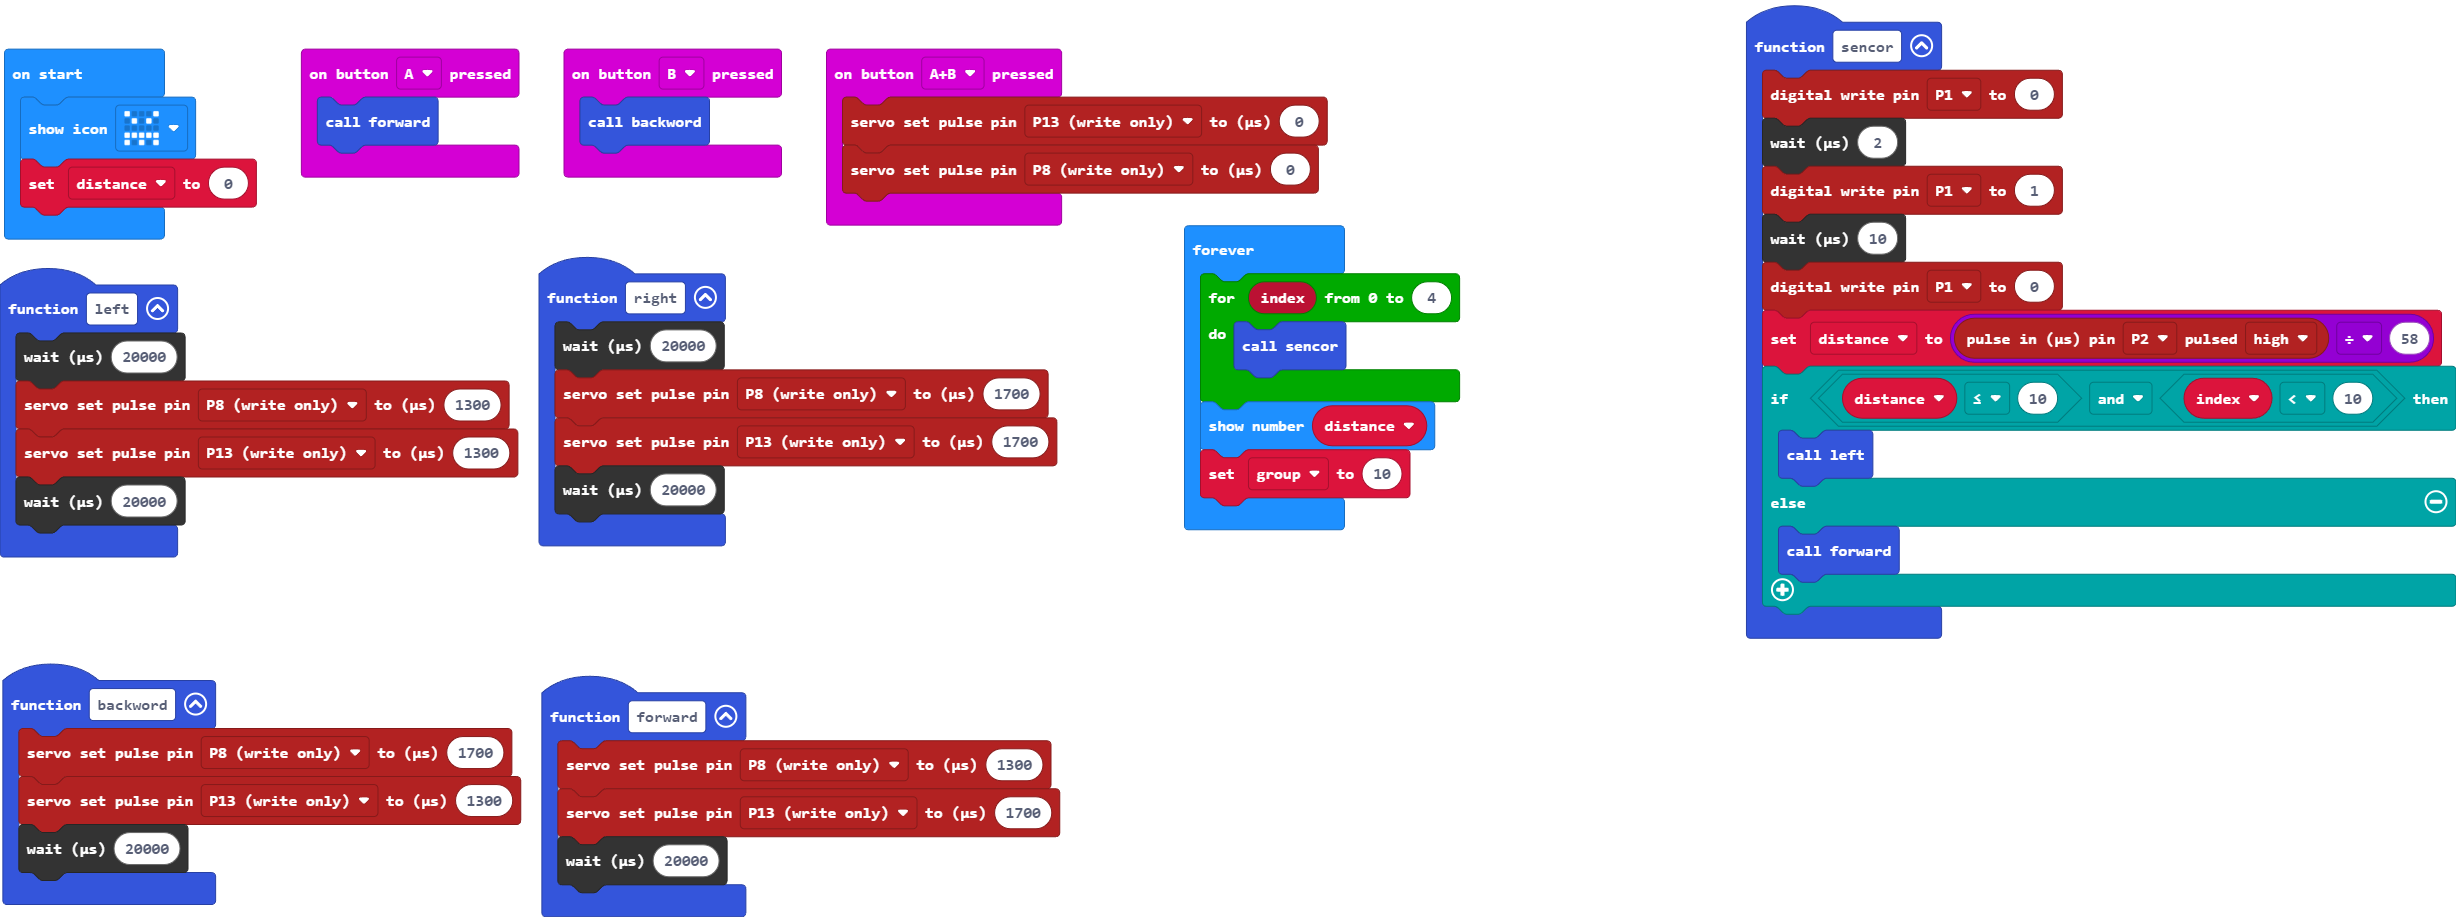
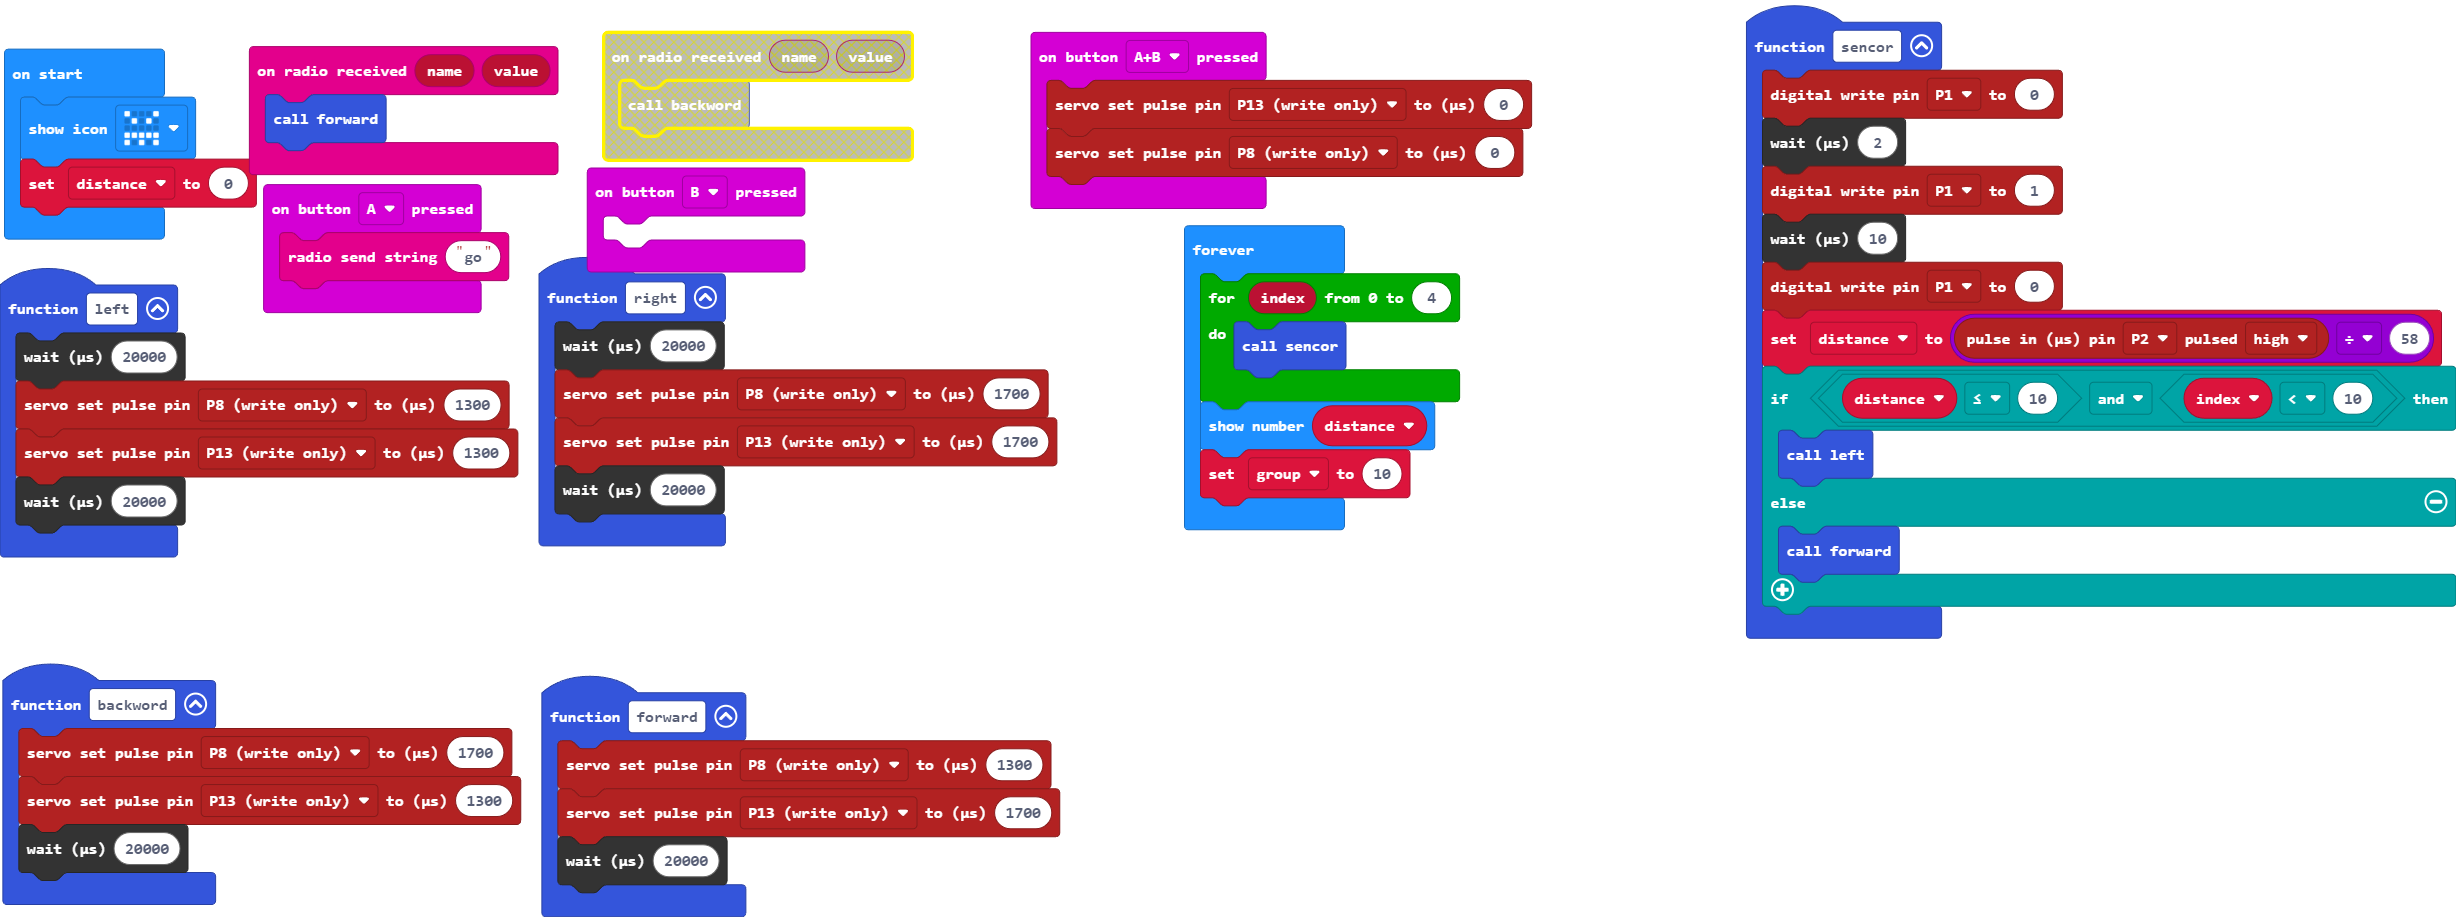
Update main.blocks, main.ts

Changed region(s): [[0.0928, 0.0305, 0.6498, 0.3664]]

diff --git a/main.ts b/main.ts
@@ -16,7 +16,7 @@ function left () {
     control.waitMicros(20000)
 }
 input.onButtonPressed(Button.A, function () {
-    forward()
+    radio.sendString("go")
 })
 function sencor () {
     let index = 0
@@ -37,7 +37,10 @@ input.onButtonPressed(Button.AB, function () {
     pins.servoSetPulse(AnalogPin.P8, 0)
 })
 input.onButtonPressed(Button.B, function () {
-    backword()
+	
+})
+radio.onReceivedValue(function (name, value) {
+    forward()
 })
 function forward () {
     pins.servoSetPulse(AnalogPin.P8, 1300)
